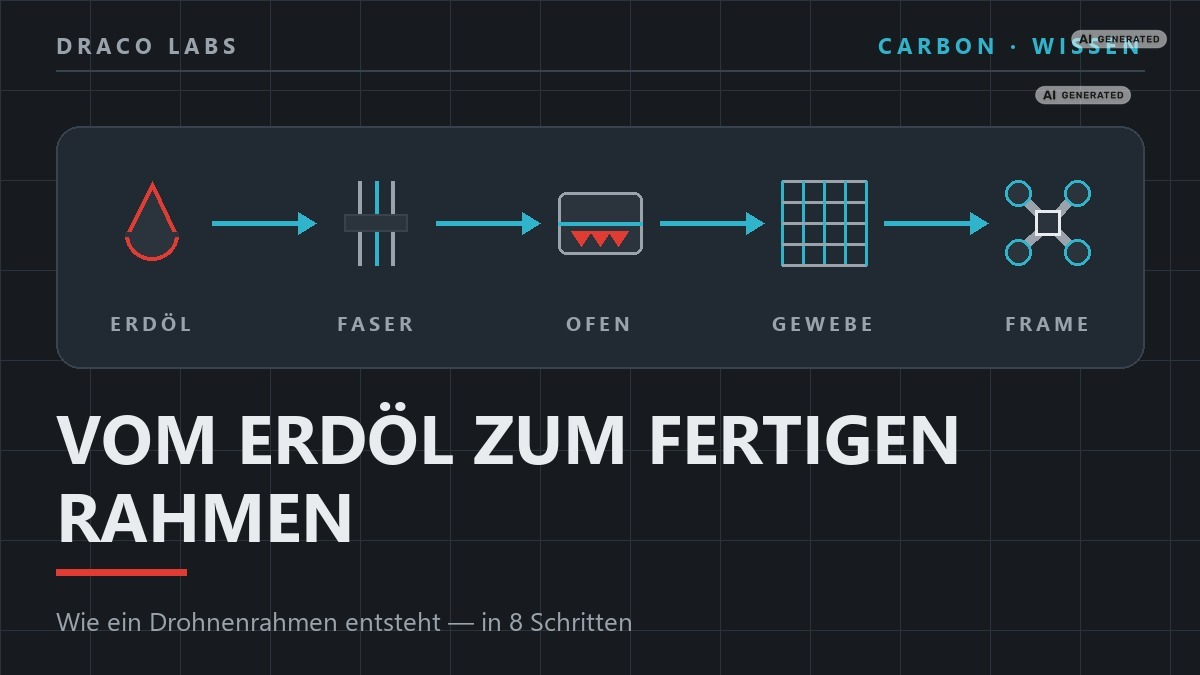
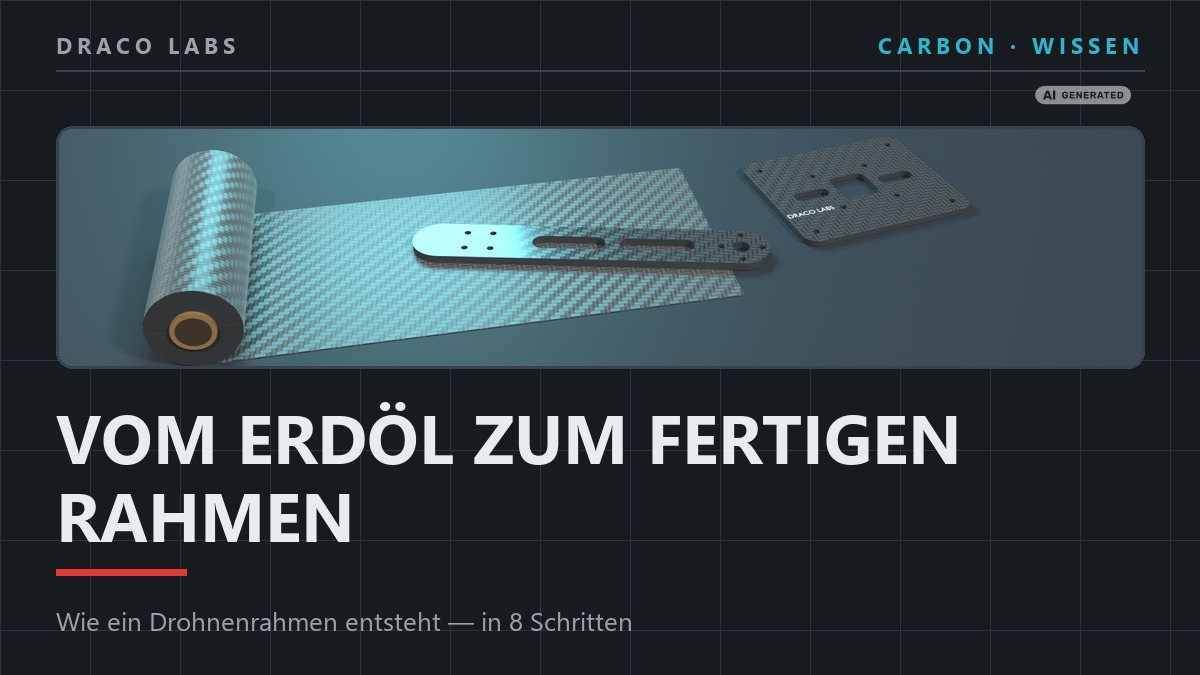
Ratgeber: Aufmacher als Blender-Render fuer alle uebrigen Ratgeber und Teilelisten
Motor, Akku, Lader, Video, Funk, Carbon, C5, Teilelisten 10/13 sowie die
Entwuerfe Autopilot, Kamerasysteme, Nutzlast (bleiben noindex).  Texte der
Aufmacher unveraendert, Kachel-Alt-Texte beschreiben das neue Motiv.

diff --git a/index.html b/index.html
@@ -255,9 +255,10 @@
         </div>
       </a>
       <a class="rg-kachel" href="ratgeber-c5-remote-id.html">
-        <img src="assets/ratgeber/c5-remote-id-hook.jpg" alt="Aufmacher im Draco-Labs-Look: „Deine Drohne sendet.  Nur hört sie keiner“, darüber
-             zwei Karten — 250 Meter mit Bluetooth 4 Legacy, 2 Kilometer mit Wi-Fi
-             NAN.  Mit KI erstellt, Label „AI GENERATED“ im Bild."
+        <img src="assets/ratgeber/c5-remote-id-hook.jpg" alt="Aufmacher im Draco-Labs-Look: „Deine Drohne sendet.  Nur hört sie keiner“, darüber das
+             Rendering eines kleinen Remote-ID-Sendemoduls mit Stabantenne neben einem
+             gravierten Schild mit Platzhalter-Kennung „DEU-OP-XXXXXXXX“ in
+             cyanfarbenem Licht.  Mit KI erstellt, Label „AI GENERATED“ im Bild."
              width="1200" height="675" loading="lazy">
         <div class="rg-text">
           <div class="rg-titel">Das Kennzeichen entscheidet, nicht die Drohne</div>
@@ -267,9 +268,10 @@
         </div>
       </a>
       <a class="rg-kachel" href="ratgeber-motoren.html">
-        <img src="assets/ratgeber/motoren-hook.jpg" alt="Aufmacher im Draco-Labs-Look: „Wo der Schub herkommt“, darüber ein Symbolstreifen von
-             Strom über Motor und Prop zum Schub.  Mit KI erstellt, Label „AI
-             GENERATED“ im Bild."
+        <img src="assets/ratgeber/motoren-hook.jpg" alt="Aufmacher im Draco-Labs-Look: „Wo der Schub herkommt“, darüber das Rendering eines
+             zerlegten Außenläufer-Motors, links der Stator mit Kupferwicklungen und
+             drei Litzen, rechts die Glocke mit Magnetring, in cyanfarbenem Licht.
+             Mit KI erstellt, Label „AI GENERATED“ im Bild."
              width="1200" height="675" loading="lazy">
         <div class="rg-text">
           <div class="rg-titel">Wo der Schub herkommt</div>
@@ -279,9 +281,10 @@
         </div>
       </a>
       <a class="rg-kachel" href="ratgeber-videouebertragung.html">
-        <img src="assets/ratgeber/videouebertragung-hook.jpg" alt="Aufmacher im Draco-Labs-Look: „Analog oder digital?“, darüber ein Symbolstreifen von
-             der Kamera über die Funkstrecke zur Brille.  Mit KI erstellt, Label „AI
-             GENERATED“ im Bild."
+        <img src="assets/ratgeber/videouebertragung-hook.jpg" alt="Aufmacher im Draco-Labs-Look: „Analog oder digital?“, darüber das Rendering einer
+             digitalen Video-Lufteinheit, Kameramodul mit Flachbandkabel zum Sender
+             mit Kühlrippen und zwei Antennen, in cyanfarbenem Licht.  Mit KI
+             erstellt, Label „AI GENERATED“ im Bild."
              width="1200" height="675" loading="lazy">
         <div class="rg-text">
           <div class="rg-titel">Was dein Copter dir zeigt</div>
@@ -292,9 +295,10 @@
         </div>
       </a>
       <a class="rg-kachel" href="ratgeber-funk-kommunikation.html">
-        <img src="assets/ratgeber/funk-hook.jpg" alt="Aufmacher im Draco-Labs-Look: „Drei Funkstrecken am Copter“, darüber ein
-             Symbolstreifen aus Steuerung, Video und GPS.  Mit KI erstellt, Label „AI
-             GENERATED“ im Bild."
+        <img src="assets/ratgeber/funk-hook.jpg" alt="Aufmacher im Draco-Labs-Look: „Drei Funkstrecken am Copter“, darüber das Rendering
+             eines GPS-Moduls mit Keramik-Patchantenne und eines kleinen
+             Steuerempfängers mit T-Antenne in cyanfarbenem Licht.  Mit KI erstellt,
+             Label „AI GENERATED“ im Bild."
              width="1200" height="675" loading="lazy">
         <div class="rg-text">
           <div class="rg-titel">Wie du mit deinem Copter sprichst</div>
@@ -304,9 +308,10 @@
         </div>
       </a>
       <a class="rg-kachel" href="ratgeber-carbon-frame.html">
-        <img src="assets/ratgeber/carbon-frame-hook.jpg" alt="Aufmacher im Draco-Labs-Look: „Vom Erdöl zum fertigen Rahmen“, darüber ein
-             Symbolstreifen von Erdöl über Faser, Ofen und Gewebe zum Frame.  Mit KI
-             erstellt, Label „AI GENERATED“ im Bild."
+        <img src="assets/ratgeber/carbon-frame-hook.jpg" alt="Aufmacher im Draco-Labs-Look: „Vom Erdöl zum fertigen Rahmen“, darüber das Rendering
+             einer Rolle Carbon-Köpergewebe, deren Bahn sich abwickelt, darauf ein
+             gefräster Arm-Zuschnitt und daneben eine Carbonplatte, in cyanfarbenem
+             Licht.  Mit KI erstellt, Label „AI GENERATED“ im Bild."
              width="1200" height="675" loading="lazy">
         <div class="rg-text">
           <div class="rg-titel">Vom Erdöl zum FPV-Frame</div>
@@ -316,9 +321,9 @@
         </div>
       </a>
       <a class="rg-kachel" href="ratgeber-akku-13-zoll.html">
-        <img src="assets/ratgeber/akku-hook.jpg" alt="Aufmacher im Draco-Labs-Look: „Der Akku entscheidet die Flugzeit“, darüber ein
-             Symbolstreifen von der Zelle über die Reihe und den Strom zum Schub.  Mit
-             KI erstellt, Label „AI GENERATED“ im Bild."
+        <img src="assets/ratgeber/akku-hook.jpg" alt="Aufmacher im Draco-Labs-Look: „Der Akku entscheidet die Flugzeit“, darüber das
+             Rendering eines 6S-LiPo-Akkus mit XT90-Stecker und Balancerkabel in
+             cyanfarbenem Licht.  Mit KI erstellt, Label „AI GENERATED“ im Bild."
              width="1200" height="675" loading="lazy">
         <div class="rg-text">
           <div class="rg-titel">Du und dein Akku</div>
@@ -327,9 +332,10 @@
         </div>
       </a>
       <a class="rg-kachel" href="ratgeber-ladegeraet-8s.html">
-        <img src="assets/ratgeber/ladegeraet-hook.jpg" alt="Aufmacher im Draco-Labs-Look: „Was dein Ladegerät können muss“, darüber ein
-             Symbolstreifen vom Lader über den Balancer zur Zelle.  Mit KI erstellt,
-             Label „AI GENERATED“ im Bild."
+        <img src="assets/ratgeber/ladegeraet-hook.jpg" alt="Aufmacher im Draco-Labs-Look: „Was dein Ladegerät können muss“, darüber das Rendering
+             eines Ladegeräts mit Display und sechs Zellbalken, über Hauptleitung und
+             Balancerkabel mit einem 6S-Akku verbunden, in cyanfarbenem Licht.  Mit KI
+             erstellt, Label „AI GENERATED“ im Bild."
              width="1200" height="675" loading="lazy">
         <div class="rg-text">
           <div class="rg-titel">Der Akku und sein Ladegerät</div>
@@ -349,9 +355,10 @@
     <!-- teilelisten:start -->
     <div class="rg-karussell">
       <a class="rg-kachel" href="ratgeber-teileliste-10-zoll.html">
-        <img src="assets/ratgeber/teileliste-10-zoll-hook.jpg" alt="Aufmacher im Draco-Labs-Look: „10 Zoll, 6S“, darüber ein Symbolstreifen aus Frame,
-             Motor, Prop, Akku und GPS.  Mit KI erstellt, Label „AI GENERATED“ im
-             Bild."
+        <img src="assets/ratgeber/teileliste-10-zoll-hook.jpg" alt="Aufmacher im Draco-Labs-Look: „10 Zoll, 6S“, darüber das Rendering eines ausgelegten
+             Teile-Sets mit Dreiblatt-Propellern, vier Motoren, 6S-Akku,
+             Carbon-Auslegern, Flugsteuerung, Kamera, GPS und Empfänger in
+             cyanfarbenem Licht.  Mit KI erstellt, Label „AI GENERATED“ im Bild."
              width="1200" height="675" loading="lazy">
         <div class="rg-text">
           <div class="rg-titel">10-Zoll-Build (6S)</div>
@@ -361,9 +368,11 @@
         </div>
       </a>
       <a class="rg-kachel" href="ratgeber-teileliste-13-build-1.html">
-        <img src="assets/ratgeber/teileliste-13-hook.jpg" alt="Aufmacher im Draco-Labs-Look: „13 Zoll (6S-8S)“, darüber ein Symbolstreifen aus Frame,
-             Motor, Akku, Lader und Funk.  Mit KI erstellt, Label „AI GENERATED“ im
-             Bild."
+        <img src="assets/ratgeber/teileliste-13-hook.jpg" alt="Aufmacher im Draco-Labs-Look: „13 Zoll (6S-8S)“, darüber das Rendering eines
+             ausgelegten Teile-Sets mit langen Carbon-Zweiblattpropellern, vier großen
+             Motoren, 8S-Akku, Carbon-Auslegern, Flugsteuerung, Kamera, GPS und
+             Empfänger in cyanfarbenem Licht.  Mit KI erstellt, Label „AI GENERATED“
+             im Bild."
              width="1200" height="675" loading="lazy">
         <div class="rg-text">
           <div class="rg-titel">13-Zoll-Build (6S - 8S)</div>

diff --git a/ratgeber-autopilot.html b/ratgeber-autopilot.html
@@ -16,7 +16,7 @@
 <meta property="og:title" content="Drei Kreisel, die einander misstrauen — vom FPV-Board zum Autopiloten">
 <meta property="og:description" content="Warum ein Autopilot langsamer regelt und trotzdem ruhiger fliegt, was der EKF wirklich tut und weshalb Redundanz erst beim zweiten Sensor anfängt. Jede Zahl mit Quelle.">
 <meta property="og:url" content="https://dracolabsgermany.com/ratgeber-autopilot.html">
-<meta property="og:image" content="https://dracolabsgermany.com/assets/ratgeber/autopilot-hero.jpg">
+<meta property="og:image" content="https://dracolabsgermany.com/assets/ratgeber/autopilot-hook.jpg">
 <meta property="og:site_name" content="Draco Labs Germany">
 <meta property="og:locale" content="de_DE">
 
@@ -24,7 +24,7 @@
 <meta name="twitter:card" content="summary_large_image">
 <meta name="twitter:title" content="Drei Kreisel, die einander misstrauen — vom FPV-Board zum Autopiloten">
 <meta name="twitter:description" content="EKF, Pixhawk-Standard, Redundanz, CAN und Absicherungen: was einen Autopiloten von einem FPV-Board unterscheidet. Jede Zahl mit Quelle.">
-<meta name="twitter:image" content="https://dracolabsgermany.com/assets/ratgeber/autopilot-hero.jpg">
+<meta name="twitter:image" content="https://dracolabsgermany.com/assets/ratgeber/autopilot-hook.jpg">
 
 <link rel="icon" type="image/png" href="assets/emblem.png">
 <link rel="stylesheet" href="style.css">
@@ -36,7 +36,7 @@
   "@type": "Article",
   "headline": "Drei Kreisel, die einander misstrauen: vom FPV-Board zum Autopiloten",
   "description": "Autopilot-Ratgeber für Copter: kaskadierte Regelkreise, Zustandsschätzung mit dem EKF, Firmware-Wahl zwischen INAV, ArduPilot und PX4, Pixhawk-Standard und Sensorredundanz, DroneCAN, Absicherungen und die EU-Regeln der offenen Kategorie, an Herstellerangaben und Firmware-Dokumentationen erklärt.",
-  "image": "https://dracolabsgermany.com/assets/ratgeber/autopilot-hero.jpg",
+  "image": "https://dracolabsgermany.com/assets/ratgeber/autopilot-hook.jpg",
   "datePublished": "2026-08-20",
   "dateModified": "2026-08-20",
   "author": { "@type": "Organization", "name": "Draco Labs Germany" },

diff --git a/ratgeber-nutzlast-gimbal.html b/ratgeber-nutzlast-gimbal.html
@@ -16,7 +16,7 @@
 <meta property="og:title" content="Was der Copter tragen kann — Nutzlast und Bildstabilisierung">
 <meta property="og:description" content="Was ein Gimbal an Gewicht, Strom und Bauhöhe kostet, warum die dritte Achse die teuerste ist und wann ein fester Halter mit Dämpfung das bessere Bild liefert.">
 <meta property="og:url" content="https://dracolabsgermany.com/ratgeber-nutzlast-gimbal.html">
-<meta property="og:image" content="https://dracolabsgermany.com/assets/ratgeber/nutzlast-gimbal-hero.jpg">
+<meta property="og:image" content="https://dracolabsgermany.com/assets/ratgeber/nutzlast-gimbal-hook.jpg">
 <meta property="og:site_name" content="Draco Labs Germany">
 <meta property="og:locale" content="de_DE">
 
@@ -24,7 +24,7 @@
 <meta name="twitter:card" content="summary_large_image">
 <meta name="twitter:title" content="Was der Copter tragen kann — Nutzlast und Bildstabilisierung">
 <meta name="twitter:description" content="Gimbal oder elektronische Stabilisierung? Gewicht, Strom, Bildwinkel und Recht, mit belegten Zahlen.">
-<meta name="twitter:image" content="https://dracolabsgermany.com/assets/ratgeber/nutzlast-gimbal-hero.jpg">
+<meta name="twitter:image" content="https://dracolabsgermany.com/assets/ratgeber/nutzlast-gimbal-hook.jpg">
 
 <link rel="icon" type="image/png" href="assets/emblem.png">
 <link rel="stylesheet" href="style.css">
@@ -36,7 +36,7 @@
   "@type": "Article",
   "headline": "Was der Copter tragen kann: Nutzlast, Sensorik und Bildstabilisierung",
   "description": "Nutzlast- und Gimbal-Ratgeber für FPV- und Long-Range-Copter: Leistungsbedarf, Schwerpunkt, Vibrationsdämpfung, 2 gegen 3 Achsen, elektronische Stabilisierung und die rechtlichen Grenzen.",
-  "image": "https://dracolabsgermany.com/assets/ratgeber/nutzlast-gimbal-hero.jpg",
+  "image": "https://dracolabsgermany.com/assets/ratgeber/nutzlast-gimbal-hook.jpg",
   "datePublished": "2026-08-20",
   "dateModified": "2026-08-20",
   "author": { "@type": "Organization", "name": "Draco Labs Germany" },

diff --git a/ratgeber-kamerasysteme.html b/ratgeber-kamerasysteme.html
@@ -16,7 +16,7 @@
 <meta property="og:title" content="Was die Kamera wirklich misst — RGB, Wärmebild, LiDAR, Multispektral">
 <meta property="og:description" content="Vier Sensoren, vier Physiken: warum die Zahl auf dem Datenblatt den Sensor beschreibt und nicht das Ergebnis, mit belegten Zahlen und offenen Rechnungen.">
 <meta property="og:url" content="https://dracolabsgermany.com/ratgeber-kamerasysteme.html">
-<meta property="og:image" content="https://dracolabsgermany.com/assets/ratgeber/kamerasysteme-hero.jpg">
+<meta property="og:image" content="https://dracolabsgermany.com/assets/ratgeber/kamerasysteme-hook.jpg">
 <meta property="og:site_name" content="Draco Labs Germany">
 <meta property="og:locale" content="de_DE">
 
@@ -24,7 +24,7 @@
 <meta name="twitter:card" content="summary_large_image">
 <meta name="twitter:title" content="Was die Kamera wirklich misst — RGB, Wärmebild, LiDAR, Multispektral">
 <meta name="twitter:description" content="Vier Sensoren, vier Messgrößen. Was jede Datenblattzahl trägt, und was sie nicht verspricht.">
-<meta name="twitter:image" content="https://dracolabsgermany.com/assets/ratgeber/kamerasysteme-hero.jpg">
+<meta name="twitter:image" content="https://dracolabsgermany.com/assets/ratgeber/kamerasysteme-hook.jpg">
 
 <link rel="icon" type="image/png" href="assets/emblem.png">
 <link rel="stylesheet" href="style.css">
@@ -36,7 +36,7 @@
   "@type": "Article",
   "headline": "Was die Kamera wirklich misst: RGB, Wärmebild, LiDAR und Multispektral",
   "description": "Technischer Vergleich der vier Kamerasysteme für Drohnen: Messgröße, Sensoraufbau, Kennzahlen und die Grenzen, die nicht im Datenblatt stehen.",
-  "image": "https://dracolabsgermany.com/assets/ratgeber/kamerasysteme-hero.jpg",
+  "image": "https://dracolabsgermany.com/assets/ratgeber/kamerasysteme-hook.jpg",
   "datePublished": "2026-08-20",
   "dateModified": "2026-08-20",
   "author": { "@type": "Organization", "name": "Draco Labs Germany" },
